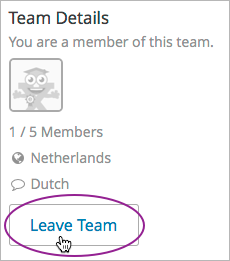
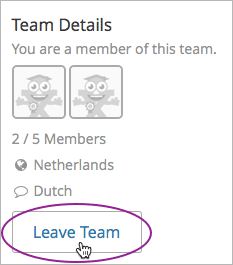
Further edits per MY review, update screenshots

Changed region(s): [[0.0304, 0.0307, 0.9435, 0.5517], [0.0, 0.6743, 0.6696, 1.0], [0.0304, 0.5824, 0.487, 0.6437]]

diff --git a/en_us/shared/students/SFD_teams.rst b/en_us/shared/students/SFD_teams.rst
@@ -78,6 +78,10 @@ To browse topics and find a team to join, follow these steps.
    view or back to all topics using the breadcrumb links at the top of the
    page.
 
+.. image:: ../../shared/students/Images/Teams_Breadcrumbs.png
+  :width: 500
+  :alt: Use the breadcrumb links to navigate within teams and topics.
+
 
 =======================
 Join a Team
@@ -85,22 +89,23 @@ Join a Team
 
 When you have found a team you want to join, select **Join Team**. 
 
-.. note:: If a team is full, the **Join Team** button is not available.
+.. note:: If a team is full, or if you already belong to another team, the
+   **Join Team** button is not available.
 
 .. image:: ../../shared/students/Images/Teams_JoinTeamButton.png
   :width: 500
   :alt: The Join Team button on the details page of a team.
 
-Your profile is added to the list of team member profiles, and you can
-participate in the team's discussions. The team that you joined is added to
-the **My Team** page.
+You are automatically added as a member. Your profile is added to the list of
+team member profiles, and you can participate in the team's discussions. The
+team that you joined is added to your **My Team** page.
 
 .. note:: You can only belong to one team at a time. If you belong to a team,
    but find another team that you want to join, you must leave the first team
    before you can join a new one.
 
 
-.. Add back Invite Friends when this feature becomes available
+.. Add back Invite Friends section when this feature becomes available
 
 
 =======================
@@ -137,6 +142,8 @@ Creating a Team
 =======================
 
 Try to find an existing team to join, before creating a new team.
+
+.. note:: You cannot create a team if you already belong to a team.
 
 When you create a new team in a topic, you are automatically added as a
 member.
